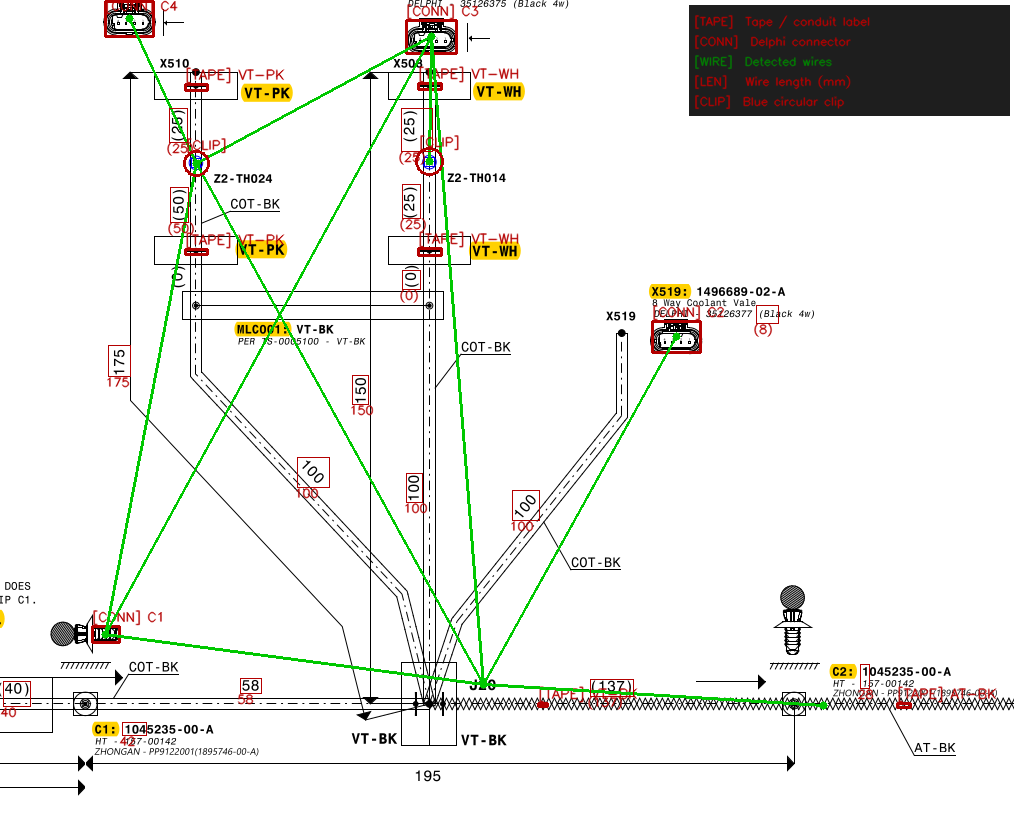
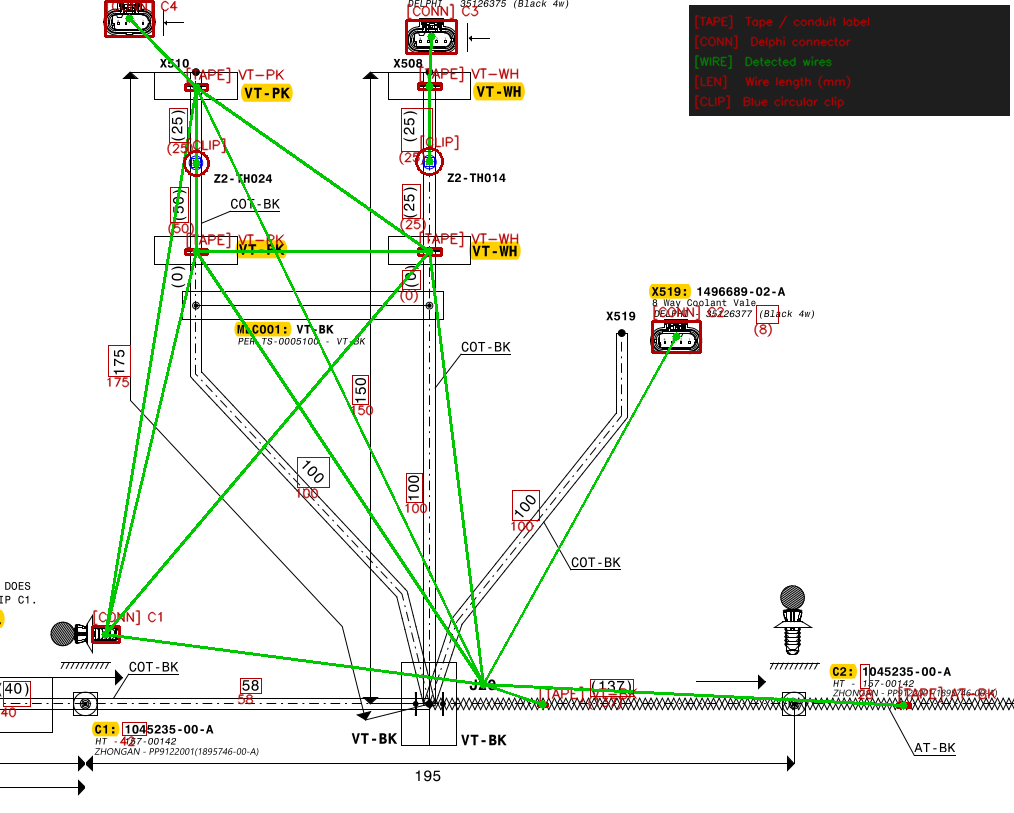
Added tapes in graph building

diff --git a/wiring_diagram_detector.py b/wiring_diagram_detector.py
@@ -1247,6 +1247,8 @@ def build_connectivity_graph_heuristic(tape_labels, connectors, clips, wires, le
             'label': f"Z2-TH{i+1}",
             'type': 'clip'
         }
+        
+    
     
     # ═══ Extract junction/intermediate points from OCR data ═══
     # Accept J\d+ (junctions) and MLC\w+ (conduit branches)
@@ -1658,6 +1660,32 @@ def build_component_nodes(connectors, clips, ocr_data, tapes):
             'label': f"Z2-TH{i+1}",
             'type': 'clip',
         }
+    # Add tape labels as graph nodes.
+    # Duplicate labels are numbered top-to-bottom within each label group.
+    tape_counts = {}
+    sorted_tapes = sorted(
+        tapes,
+        key=lambda tape: (
+            tape['label'].upper(),
+            tape['bbox'][1] + tape['bbox'][3] // 2,
+            tape['bbox'][0] + tape['bbox'][2] // 2,
+        ),
+    )
+
+    for tape in sorted_tapes:
+        bx, by, bw, bh = tape['bbox']
+        cx, cy = bx + bw // 2, by + bh // 2
+        label = tape['label'].upper()
+
+        tape_counts[label] = tape_counts.get(label, 0) + 1
+        node_id = f"Tape-{label}-{tape_counts[label]}"
+
+        nodes_dict[node_id] = {
+            'x': cx,
+            'y': cy,
+            'label': tape['label'],
+            'type': 'tape'
+        }
 
     junction_pattern = re.compile(r'^(J\d+|MLC\w+)$', re.IGNORECASE)
     for item in ocr_data:
@@ -1676,24 +1704,6 @@ def build_component_nodes(connectors, clips, ocr_data, tapes):
             'type': 'junction',
         }
 
-    # Synthesize C2 when only AT-BK branch is visible but connector body is not detected.
-    connector_ids = [nid for nid, n in nodes_dict.items() if n['type'] == 'connector']
-    for tape in tapes:
-        if tape['label'].upper() != 'AT-BK':
-            continue
-        tbx, tby, tbw, tbh = tape['bbox']
-        tcx, tcy = int(tbx + tbw // 2), int(tby + tbh // 2)
-        nearby = any(
-            ((nodes_dict[nid]['x'] - tcx) ** 2 + (nodes_dict[nid]['y'] - tcy) ** 2) ** 0.5 < 200
-            for nid in connector_ids
-        )
-        if (not nearby) and ('C2' not in nodes_dict):
-            nodes_dict['C2'] = {
-                'x': max(0, tcx - 80),
-                'y': tcy,
-                'label': 'C2',
-                'type': 'connector',
-            }
 
     return nodes_dict
 
@@ -1821,6 +1831,8 @@ def map_components_to_graph(skeleton_graph, components_dict, max_snap_distance=1
             snap_limit = min(max_snap_distance, 100)
         elif comp_type == 'connector':
             snap_limit = min(max_snap_distance, 160)
+        elif comp_type == 'tape':
+            snap_limit = min(max_snap_distance, 80)
         elif comp_type == 'junction':
             snap_limit = max(max_snap_distance, 200)
         else:
